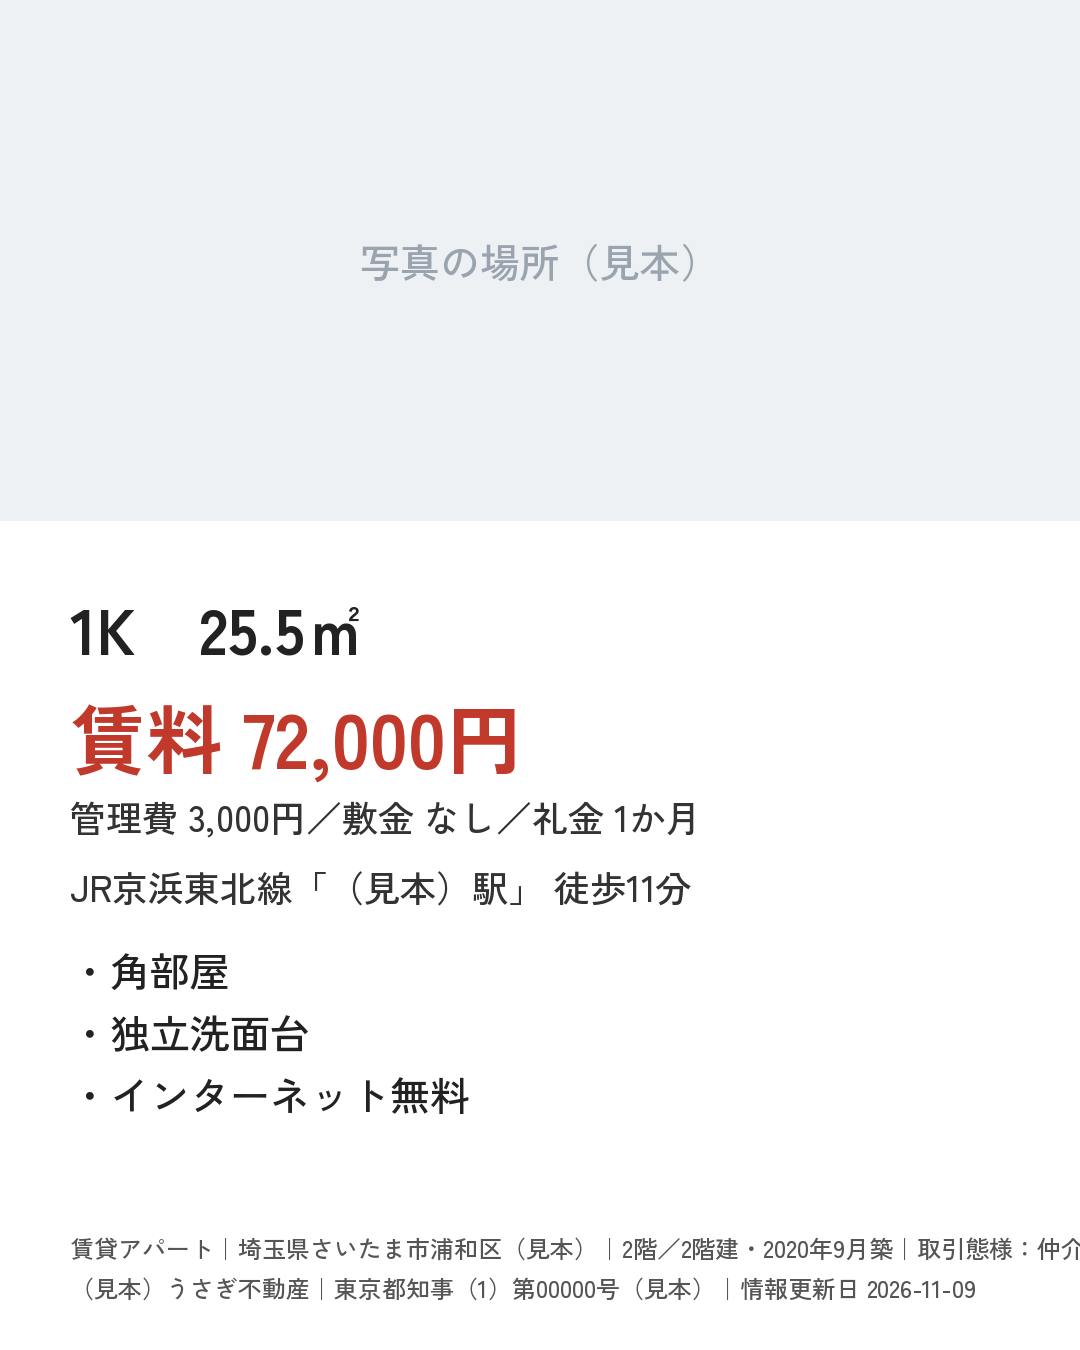
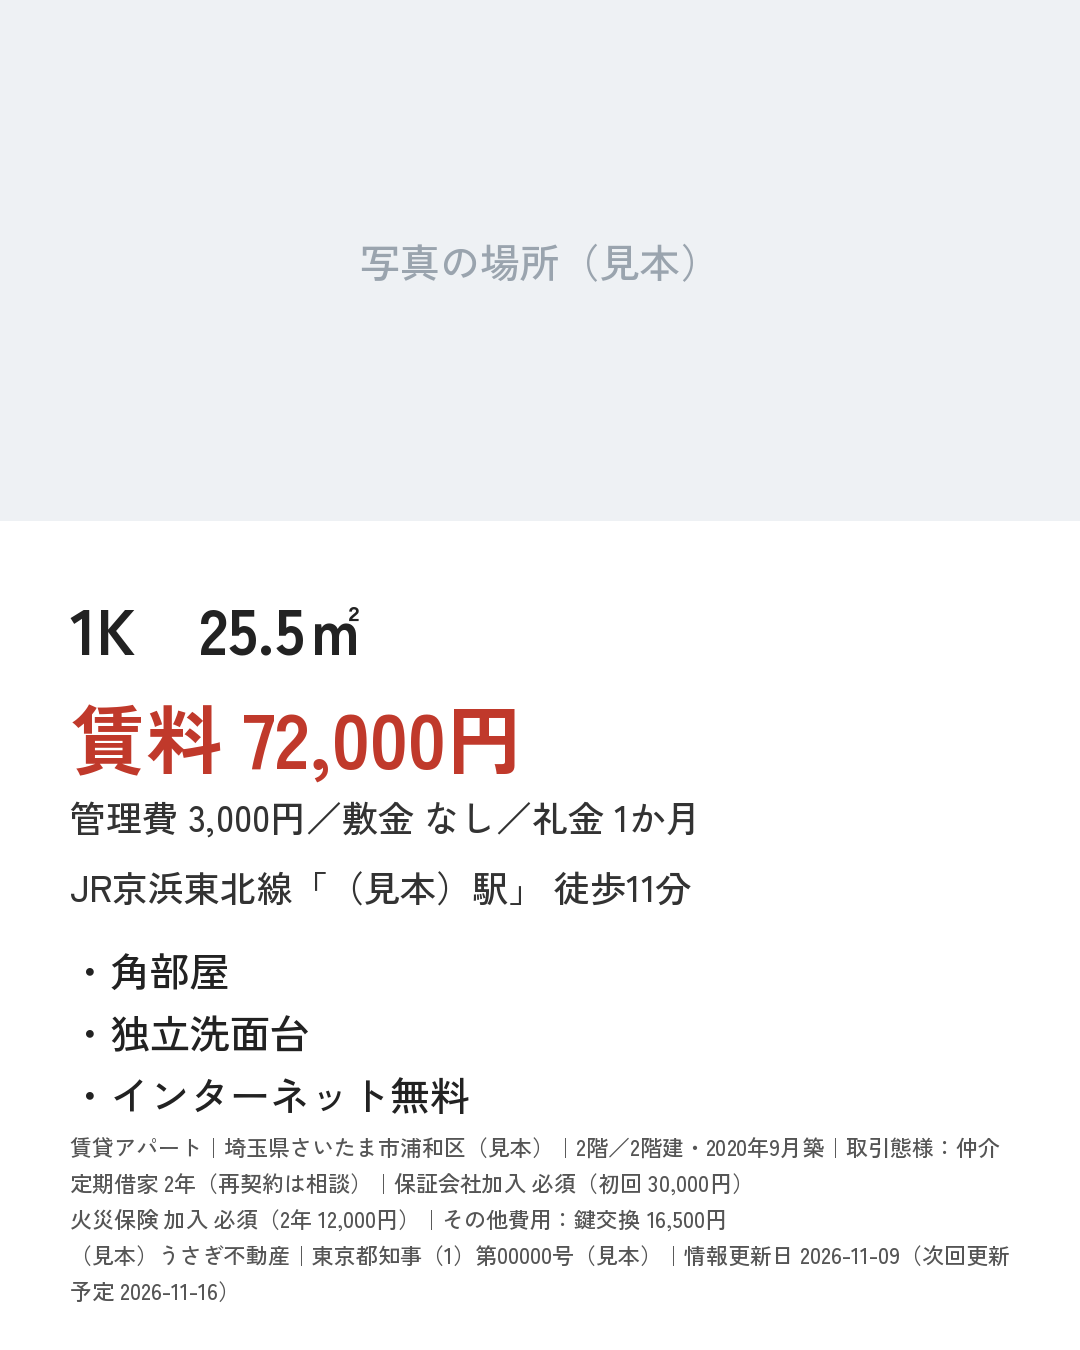
見本：欠けの見張り・概要ページのURL・5つの変更テスト／第33話は出さなかった記録
Claude-Session: https://claude.ai/code/session_012U6So1XeyEFWBYrUZ961kh

Changed region(s): [[0.0611, 0.84, 1.0, 0.9644], [0.8861, 0.84, 0.9167, 0.8711]]

diff --git a/samples/fudosan-sns/out/B/web.html b/samples/fudosan-sns/out/B/web.html
@@ -6,6 +6,11 @@
 <tr><th>交通</th><td>JR京浜東北線「（見本）駅」 徒歩11分</td></tr>
 <tr><th>間取り・面積</th><td>1K・25.5㎡</td></tr>
 <tr><th>階・築年月</th><td>2階／2階建・2020年9月</td></tr>
+<tr><th>種類</th><td>賃貸アパート</td></tr>
+<tr><th>契約</th><td>定期借家 2年（再契約は相談）</td></tr>
+<tr><th>保証会社</th><td>保証会社加入 必須（初回 30,000円）</td></tr>
+<tr><th>保険</th><td>火災保険 加入 必須（2年 12,000円）</td></tr>
+<tr><th>その他費用</th><td>鍵交換 16,500円</td></tr>
 <tr><th>取引態様</th><td>仲介</td></tr>
 <tr><th>情報更新日</th><td>2026-11-09（次回更新予定 2026-11-16）</td></tr>
 </table>

diff --git a/samples/fudosan-sns/out/C/web.html b/samples/fudosan-sns/out/C/web.html
@@ -6,6 +6,11 @@
 <tr><th>交通</th><td>東急東横線「（見本）駅」 徒歩5分</td></tr>
 <tr><th>間取り・面積</th><td>2LDK・55.0㎡</td></tr>
 <tr><th>階・築年月</th><td>8階／12階建・2012年2月</td></tr>
+<tr><th>種類</th><td>賃貸マンション</td></tr>
+<tr><th>契約</th><td>普通借家 2年</td></tr>
+<tr><th>保証会社</th><td>保証会社加入 必須（初回 賃料の50%）</td></tr>
+<tr><th>保険</th><td>火災保険 加入 必須（2年 20,000円）</td></tr>
+<tr><th>その他費用</th><td>室内清掃 44,000円（退去時）</td></tr>
 <tr><th>取引態様</th><td>仲介</td></tr>
 <tr><th>情報更新日</th><td>2026-11-09（次回更新予定 2026-11-16）</td></tr>
 </table>

diff --git a/samples/fudosan-sns/out/A/web.html b/samples/fudosan-sns/out/A/web.html
@@ -6,6 +6,11 @@
 <tr><th>交通</th><td>西武池袋線「（見本）駅」 徒歩7分</td></tr>
 <tr><th>間取り・面積</th><td>1LDK・38.2㎡</td></tr>
 <tr><th>階・築年月</th><td>4階／5階建・2016年3月</td></tr>
+<tr><th>種類</th><td>賃貸マンション</td></tr>
+<tr><th>契約</th><td>普通借家 2年</td></tr>
+<tr><th>保証会社</th><td>保証会社加入 必須（初回 賃料の50%）</td></tr>
+<tr><th>保険</th><td>火災保険 加入 必須（2年 15,000円）</td></tr>
+<tr><th>その他費用</th><td>なし</td></tr>
 <tr><th>取引態様</th><td>仲介</td></tr>
 <tr><th>情報更新日</th><td>2026-11-09（次回更新予定 2026-11-16）</td></tr>
 </table>

diff --git a/samples/fudosan-sns/make.py b/samples/fudosan-sns/make.py
@@ -1,8 +1,11 @@
 """見本：物件1件の情報から、SNS投稿セット（X・Threads・インスタ画像・Web説明）を作る。
 11/9 3代表の話し合いで燈が推した案の最小見本。架空の物件だけを使う（実在の物件・写真・会社は使わない）。
 使い方：python3 samples/fudosan-sns/make.py [properties.json]  → out/<id>/ に4つ書く。かかった秒を最後に出す。
-表示の決まり（不動産の公正競争規約）で必ず入れる項目は、公式でまだ確かめていない（夜に頼んだ）。今は主な項目を全部の出力に入れている。"""
-import json, os, sys, time
+表示の決まり（11/9 夜の調べ）：公取協通信365号 Q2＝概要を全部満たして明瞭なら画像でよい・全部入らない時は概要を載せたページへのURLでよい。
+  → X は字数が足りないので、概要を全部のせた Web（web.html）への URL を入れる。Threads・インスタ画像・Web は概要を全部入れる。
+  別表9 の項目の細かい照合は月・夜（REQUIRED は見本の確認項目。法の判断ではない）。
+check() で、出力ごとに入れるべき項目の欠け・古い値の残り・募集終了の残りを数える。"""
+import json, os, re, sys, time
 from PIL import Image, ImageDraw, ImageFont
 
 D = os.path.dirname(os.path.abspath(__file__))
@@ -18,21 +21,50 @@ def yen(v):
     return f"{v:,}円"
 
 
+# 出力に必ず入れる項目（見本の確認項目）。key と、出力の中に出る字
+REQUIRED = ["kind", "deal", "town", "station", "walk", "rent", "fee", "deposit", "key", "layout", "area", "floor", "built",
+            "term", "guarantor", "insurance", "other", "updated", "next"]
+
+
+def shown(it, k):
+    v = it[k]
+    if k in ("rent", "fee"):
+        return yen(v)
+    if k == "walk":
+        return f"徒歩{v}分"
+    if k == "area":
+        return f"{v}㎡"
+    return str(v)
+
+
+def has(text, s):
+    """s が text にあるか。数字は前に数字・カンマが続かない所だけ（95,000円 の中の 5,000円 を数えない）"""
+    return re.search(r"(?<![\d,])" + re.escape(s), text) is not None
+
+
 def must_line(it):
     # 広告に入れる主な項目（取引態様・所在地・交通・賃料・管理費・敷金礼金・間取り・面積・築年月・情報の日付）
     return (f"{it['kind']}｜取引態様：{it['deal']}｜{it['town']}｜{it['station']} 徒歩{it['walk']}分｜"
             f"賃料{yen(it['rent'])}・管理費{yen(it['fee'])}・敷金{it['deposit']}・礼金{it['key']}｜"
-            f"{it['layout']}・{it['area']}㎡・{it['floor']}・{it['built']}築｜情報更新日{it['updated']}（次回{it['next']}）")
+            f"{it['layout']}・{it['area']}㎡・{it['floor']}・{it['built']}築｜{it['term']}｜{it['guarantor']}｜{it['insurance']}｜その他費用：{it['other']}｜"
+            f"情報更新日{it['updated']}（次回更新予定{it['next']}）")
+
+
+ENDED = "この物件の募集は終わりました。"
 
 
 def x_text(it, co):
+    if it.get("status") == "終了":
+        return f"{ENDED}\n{co['name']}"
     head = f"【{it['layout']}｜{it['station'].split('「')[-1].rstrip('」')}徒歩{it['walk']}分】{yen(it['rent'])}"
     body = "・" + "\n・".join(it["points"])
-    tail = f"{co['name']}（{it['deal']}）"
+    tail = f"{co['name']}（{it['deal']}）\n条件のすべて→{it['url']}"
     return f"{head}\n{body}\n{tail}"
 
 
 def threads_text(it, co):
+    if it.get("status") == "終了":
+        return f"{ENDED}\n{co['name']}｜{co['license']}"
     return (f"{it['town']}の{it['layout']}です。\n"
             f"{it['station']}から歩いて{it['walk']}分、{it['points'][0]}と{it['points'][1]}があります。\n"
             f"賃料は{yen(it['rent'])}（管理費{yen(it['fee'])}）。\n\n"
@@ -40,6 +72,8 @@ def threads_text(it, co):
 
 
 def web_text(it, co):
+    if it.get("status") == "終了":
+        return f"<p>{ENDED}</p>\n<p>{co['name']}｜{co['license']}</p>\n"
     pts = "".join(f"<li>{p}</li>" for p in it["points"])
     return (f"<h2>{it['layout']}｜{it['town']}</h2>\n<ul>{pts}</ul>\n"
             f"<table>\n<tr><th>賃料</th><td>{yen(it['rent'])}（管理費{yen(it['fee'])}）</td></tr>\n"
@@ -47,9 +81,27 @@ def web_text(it, co):
             f"<tr><th>交通</th><td>{it['station']} 徒歩{it['walk']}分</td></tr>\n"
             f"<tr><th>間取り・面積</th><td>{it['layout']}・{it['area']}㎡</td></tr>\n"
             f"<tr><th>階・築年月</th><td>{it['floor']}・{it['built']}</td></tr>\n"
+            f"<tr><th>種類</th><td>{it['kind']}</td></tr>\n"
+            f"<tr><th>契約</th><td>{it['term']}</td></tr>\n"
+            f"<tr><th>保証会社</th><td>{it['guarantor']}</td></tr>\n"
+            f"<tr><th>保険</th><td>{it['insurance']}</td></tr>\n"
+            f"<tr><th>その他費用</th><td>{it['other']}</td></tr>\n"
             f"<tr><th>取引態様</th><td>{it['deal']}</td></tr>\n"
             f"<tr><th>情報更新日</th><td>{it['updated']}（次回更新予定 {it['next']}）</td></tr>\n</table>\n"
             f"<p>{co['name']}｜{co['license']}｜{co['tel']}</p>\n")
+
+
+def ig_lines(it, co):
+    """画像にのせる字（check でも使う）"""
+    if it.get("status") == "終了":
+        return [ENDED, co["name"]]
+    return [f"{it['layout']}　{it['area']}㎡", f"賃料 {yen(it['rent'])}",
+            f"管理費 {yen(it['fee'])}／敷金 {it['deposit']}／礼金 {it['key']}", f"{it['station']} 徒歩{it['walk']}分"] + \
+           ["・" + p for p in it["points"]] + \
+           [f"{it['kind']}｜{it['town']}｜{it['floor']}・{it['built']}築｜取引態様：{it['deal']}",
+            f"{it['term']}｜{it['guarantor']}",
+            f"{it['insurance']}｜その他費用：{it['other']}",
+            f"{co['name']}｜{co['license']}｜情報更新日 {it['updated']}（次回更新予定 {it['next']}）"]
 
 
 def ig_image(it, co, path):
@@ -70,10 +122,57 @@ def ig_image(it, co, path):
     for p in it["points"]:
         d.text((70, y), "・" + p, font=font("ZenKakuGothicNew-Medium.ttf", 40), fill="#222")
         y += 62
-    small = font("ZenKakuGothicNew-Medium.ttf", 24)
-    d.text((70, H - 120), f"{it['kind']}｜{it['town']}｜{it['floor']}・{it['built']}築｜取引態様：{it['deal']}", font=small, fill="#555")
-    d.text((70, H - 80), f"{co['name']}｜{co['license']}｜情報更新日 {it['updated']}", font=small, fill="#555")
+    small = font("ZenKakuGothicNew-Medium.ttf", 22)
+    rows = [r for line in ig_lines(it, co)[-4:] for r in wrap(line, small, W - 140)]
+    for i, line in enumerate(rows):
+        d.text((70, H - 40 - (len(rows) - i) * 36), line, font=small, fill="#555")
     im.save(path)
+
+
+def wrap(text, f, width):
+    """画像の幅に入るように折り返す（はみ出しを無くす）"""
+    rows, cur = [], ""
+    for ch in text:
+        if f.getlength(cur + ch) > width:
+            rows.append(cur)
+            cur = ch
+        else:
+            cur += ch
+    return rows + [cur] if cur else rows
+
+
+def ig_ended(it, co, path):
+    im = Image.new("RGB", (1080, 1350), "#ffffff")
+    d = ImageDraw.Draw(im)
+    d.text((540, 600), ENDED, font=font("ZenKakuGothicNew-Bold.ttf", 52), fill="#222", anchor="mm")
+    d.text((540, 700), co["name"], font=font("ZenKakuGothicNew-Medium.ttf", 36), fill="#555", anchor="mm")
+    im.save(path)
+
+
+def outputs(it, co):
+    return {"x": x_text(it, co), "threads": threads_text(it, co), "web": web_text(it, co), "ig": "\n".join(ig_lines(it, co))}
+
+
+def check(it, co, old=None):
+    """出力ごとに ①入れるべき項目の欠け ②古い値の残り ③募集終了なのに条件が残る を数える。X は URL があれば概要はリンク先でよい"""
+    out, bad = outputs(it, co), []
+    for name, text in out.items():
+        if it.get("status") == "終了":
+            if has(text, yen(it["rent"])):
+                bad.append(f"{name}：募集終了なのに賃料が残る")
+            continue
+        if name == "x":
+            if it["url"] not in text:
+                bad.append("x：概要ページのURLが無い")
+            continue
+        for k in REQUIRED:
+            if not has(text, shown(it, k)):
+                bad.append(f"{name}：{k}（{shown(it, k)}）が無い")
+        if old:
+            for k in REQUIRED:
+                if old.get(k) != it.get(k) and shown(old, k) not in shown(it, k) and has(text, shown(old, k)):
+                    bad.append(f"{name}：{k} の古い値（{shown(old, k)}）が残る")
+    return bad
 
 
 def main():
@@ -86,7 +185,9 @@ def main():
         open(os.path.join(out, "x.txt"), "w", encoding="utf-8").write(x_text(it, co))
         open(os.path.join(out, "threads.txt"), "w", encoding="utf-8").write(threads_text(it, co))
         open(os.path.join(out, "web.html"), "w", encoding="utf-8").write(web_text(it, co))
-        ig_image(it, co, os.path.join(out, "ig.png"))
+        (ig_ended if it.get("status") == "終了" else ig_image)(it, co, os.path.join(out, "ig.png"))
+        bad = check(it, co)
+        print(it["id"], "欠け・残り", len(bad), bad[:3])
         print(it["id"], "X", len(x_text(it, co)), "字", "Threads", len(threads_text(it, co)), "字")
     print(f"かかった秒：{time.time() - T0:.2f}")
 

diff --git a/samples/fudosan-sns/test_changes.py b/samples/fudosan-sns/test_changes.py
@@ -1,0 +1,20 @@
+"""夜の提案（11/9）：5つの変更を入れて、4つの出力（X・Threads・Web・インスタ画像の字）に変更漏れ・古い値の残り・募集終了の残りが無いかを数える。
+python3 samples/fudosan-sns/test_changes.py"""
+import copy, json, os, sys, time
+sys.path.insert(0, os.path.dirname(os.path.abspath(__file__)))
+import make  # noqa: E402
+
+d = json.load(open(os.path.join(make.D, "properties.json"), encoding="utf-8"))
+co = d["company"]
+CHANGES = [("A", "rent", 95000), ("A", "fee", 6000), ("B", "deposit", "1か月"), ("C", "walk", 6), ("B", "status", "終了")]
+t0, total = time.time(), 0
+for pid, k, v in CHANGES:
+    it = next(x for x in d["items"] if x["id"] == pid)
+    old = copy.deepcopy(it)
+    it[k] = v
+    it["updated"] = "2026-11-10"
+    bad = make.check(it, co, old)
+    total += len(bad)
+    print(f"{pid} {k}: {old[k]} → {v}｜欠け・残り {len(bad)}", bad[:3])
+print(f"5つの変更 合計の欠け・残り：{total}｜かかった秒：{time.time() - t0:.3f}")
+sys.exit(1 if total else 0)

diff --git a/samples/fudosan-sns/README.md b/samples/fudosan-sns/README.md
@@ -14,6 +14,14 @@
 - 条件を1回変える（B の賃料 72,000円→69,000円・更新日）：0.18秒で作り直し。X・Threads・Web の3か所が全部 69,000円になり、古い 72,000円は0か所（直し忘れ0）
 - 誤記：0（入力の値をそのまま使うため。入力をまちがえると全部にまちがいが出る）
 
+## 11/9 午後に直した所（夜の調べ・公取協通信365号 Q2）
+- X は字数が足りないので、概要を全部のせたページ（web.html）への URL を入れた（「全部入らない時は概要ページへのURLでよい」）。
+- 契約（普通借家・定期借家）・保証会社・保険・その他費用を全部の出力（Threads・画像・Web）に足した。
+- check()：出力ごとに「入れるべき項目の欠け」「古い値の残り」「募集終了なのに条件が残る」を数える。項目を1つ消すと欠けを見つけることも確かめた。
+- 画像の字が右にはみ出していた（C の最後の行）→ 幅で折り返すようにした。
+- test_changes.py：5つの変更（賃料・管理費・敷金・徒歩・募集終了）で、欠け・残り 0。
+- REQUIRED の項目は見本の確認項目で、別表9 の照合と法の判断は月・夜（燈は判断しない）。
+
 ## 弱い所（まだ確かめていない）
 - 広告に必ず入れる項目（不動産の公正競争規約）は公式で未確認。今は主な項目を入れただけ（夜に確認を頼んだ）。X は字数が少なく、全部の項目が入らない。
 - 写真は無い（会社から写真と使ってよい許可をもらう必要がある）。

diff --git a/notes/koma4-learning.md b/notes/koma4-learning.md
@@ -46,3 +46,4 @@
 - 2026-11-08 第32話 次に良くする所：正面寄りのコマ2・4でもプラグを左右2個とも見せる（また片側だけ）。コマ1は後ろ姿で顔が見えないので、少し振り向かせて「わくわく」を見せる
 - 2026-11-07 第31話『青い坂道』：閲覧 Th7・X20・インスタ117／インスタは4コマでいちばん多く、X・Threadsは中央値の3割。夜の景色の4コマは文の投稿より弱い（1コマ目に名前の看板が無かった）／直し1回
 - 2026-11-07 おでかけリール：インスタ14（同じ日の4コマ117）
+- 2026-11-09 第33話 出さなかった：2コマ目の腕3本→直した後も体の向きが読みにくい（夜・オーナーの指摘）。描き直しを雫の9:40・13:00に頼んだが、どちらの回も動かなかった。椿山荘の雲海は11/9が最終日なので、翌日に回さない。
